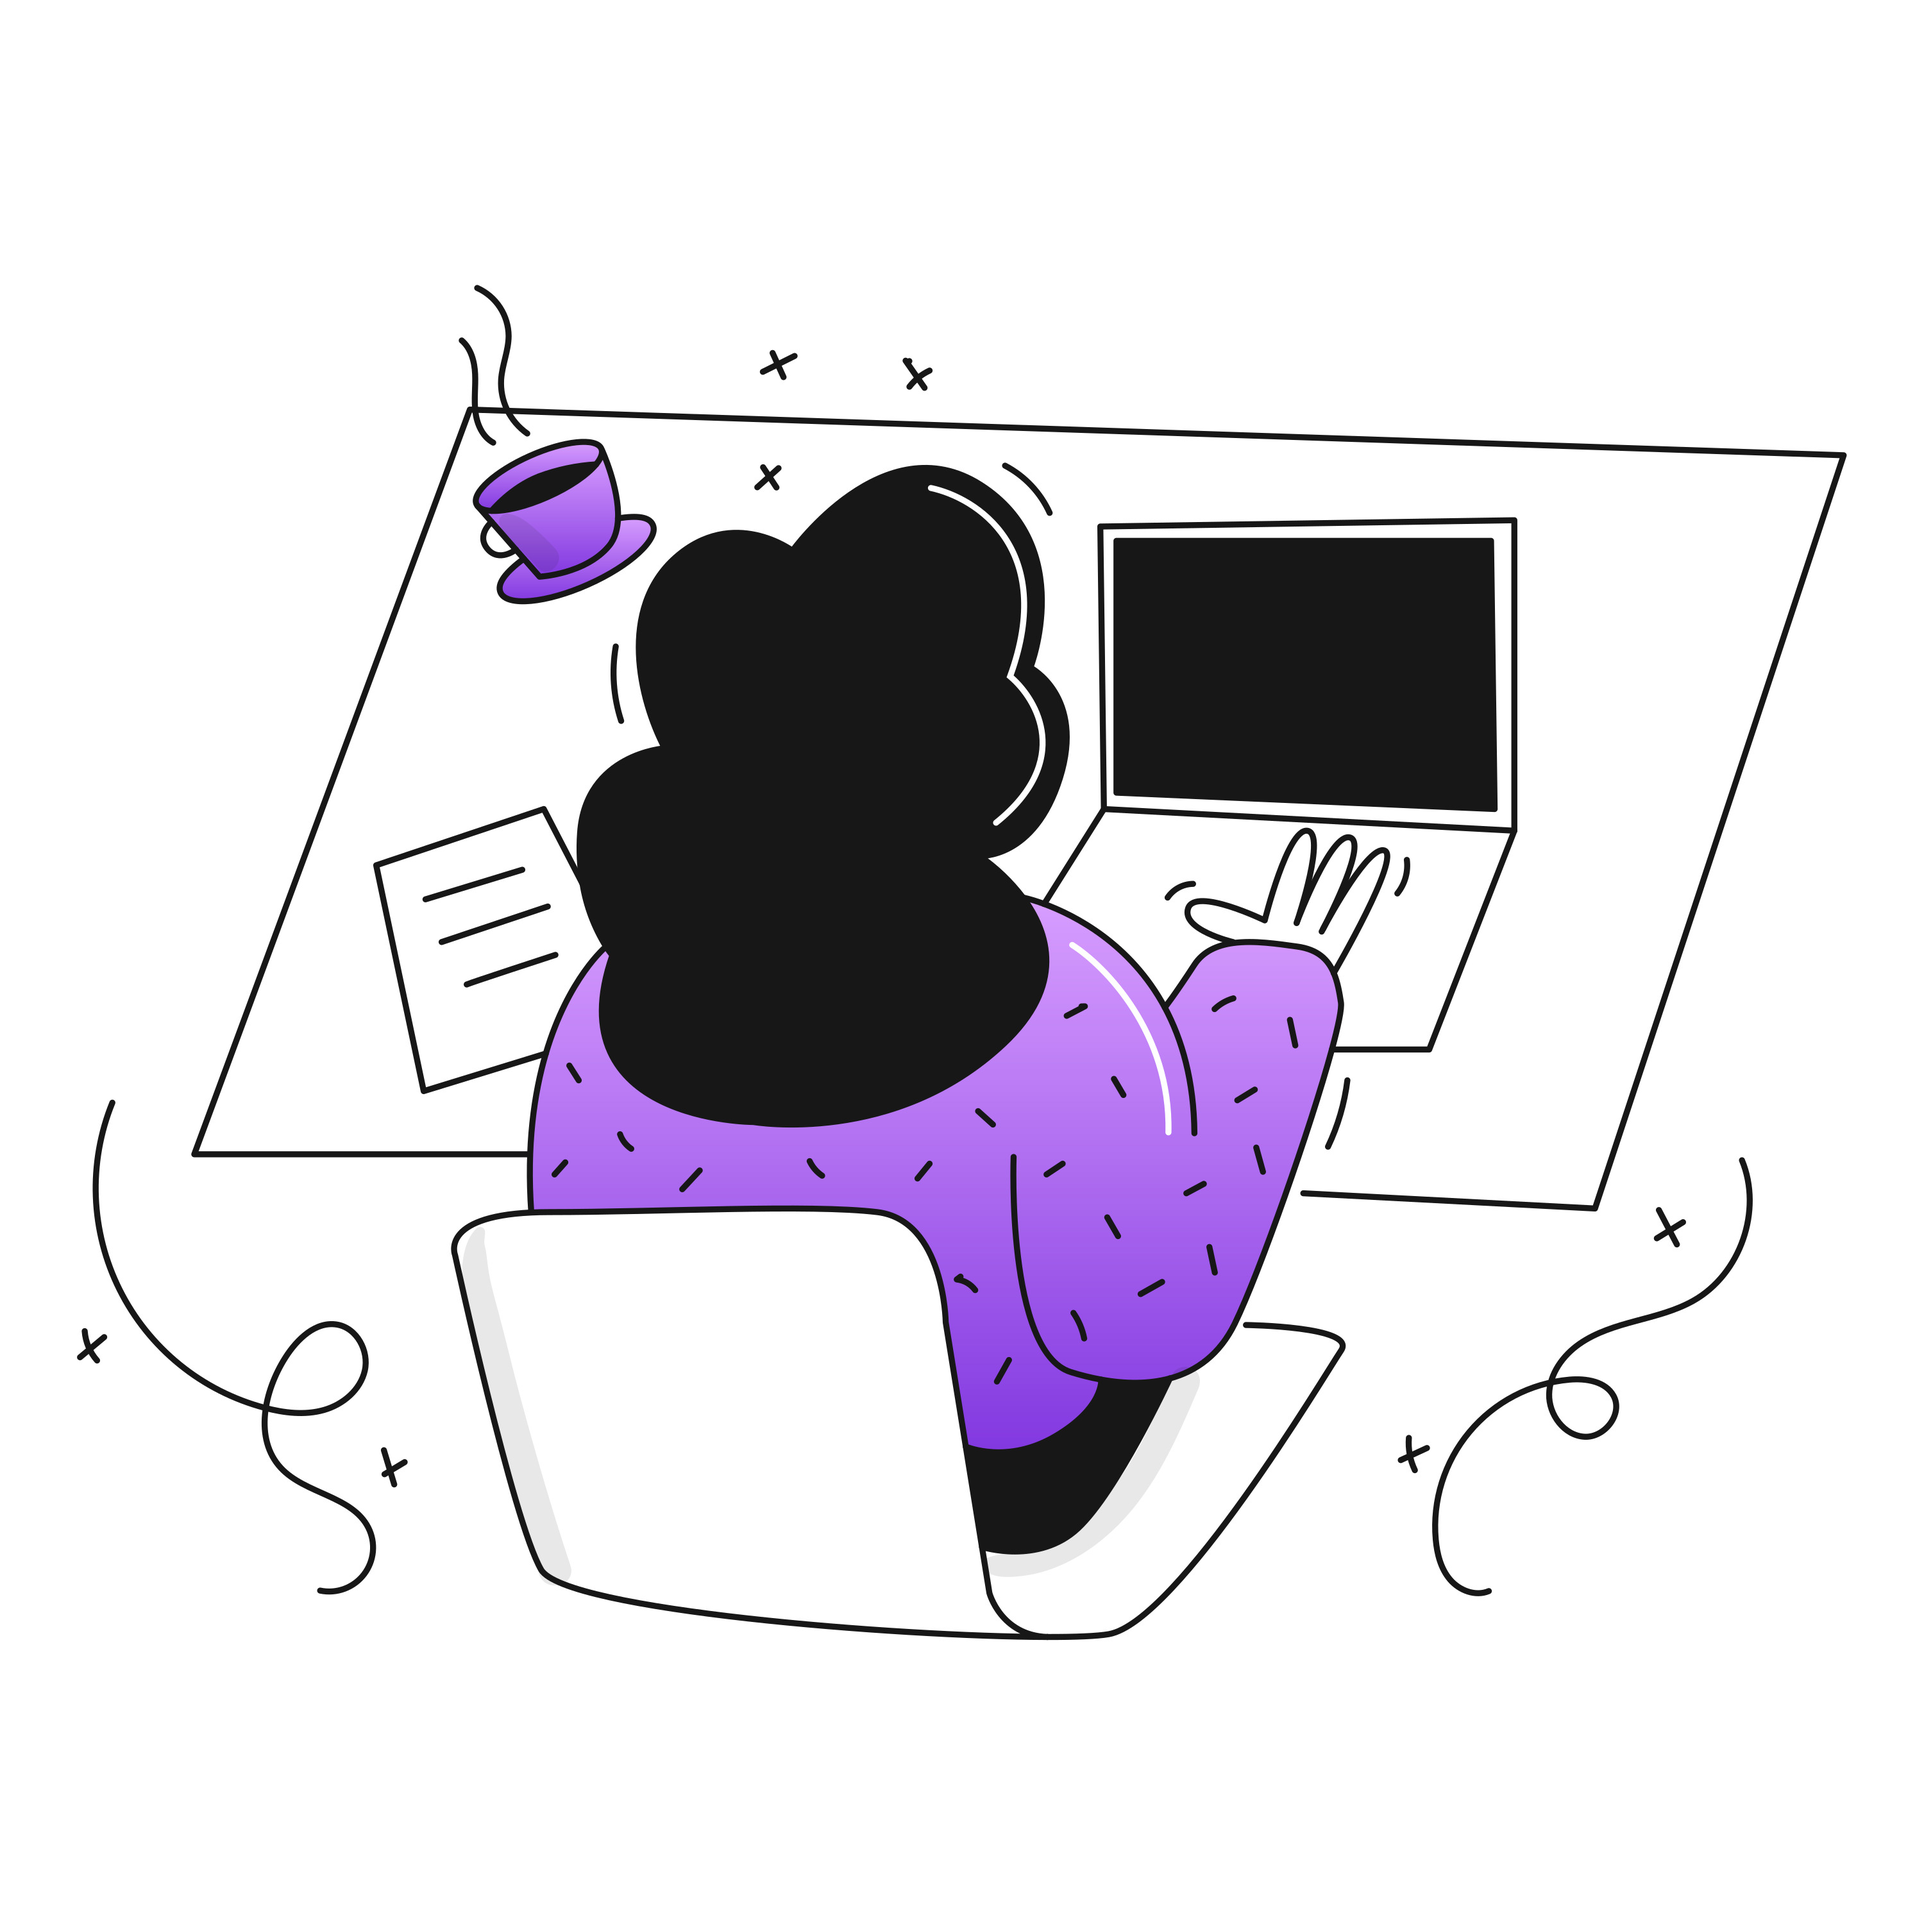
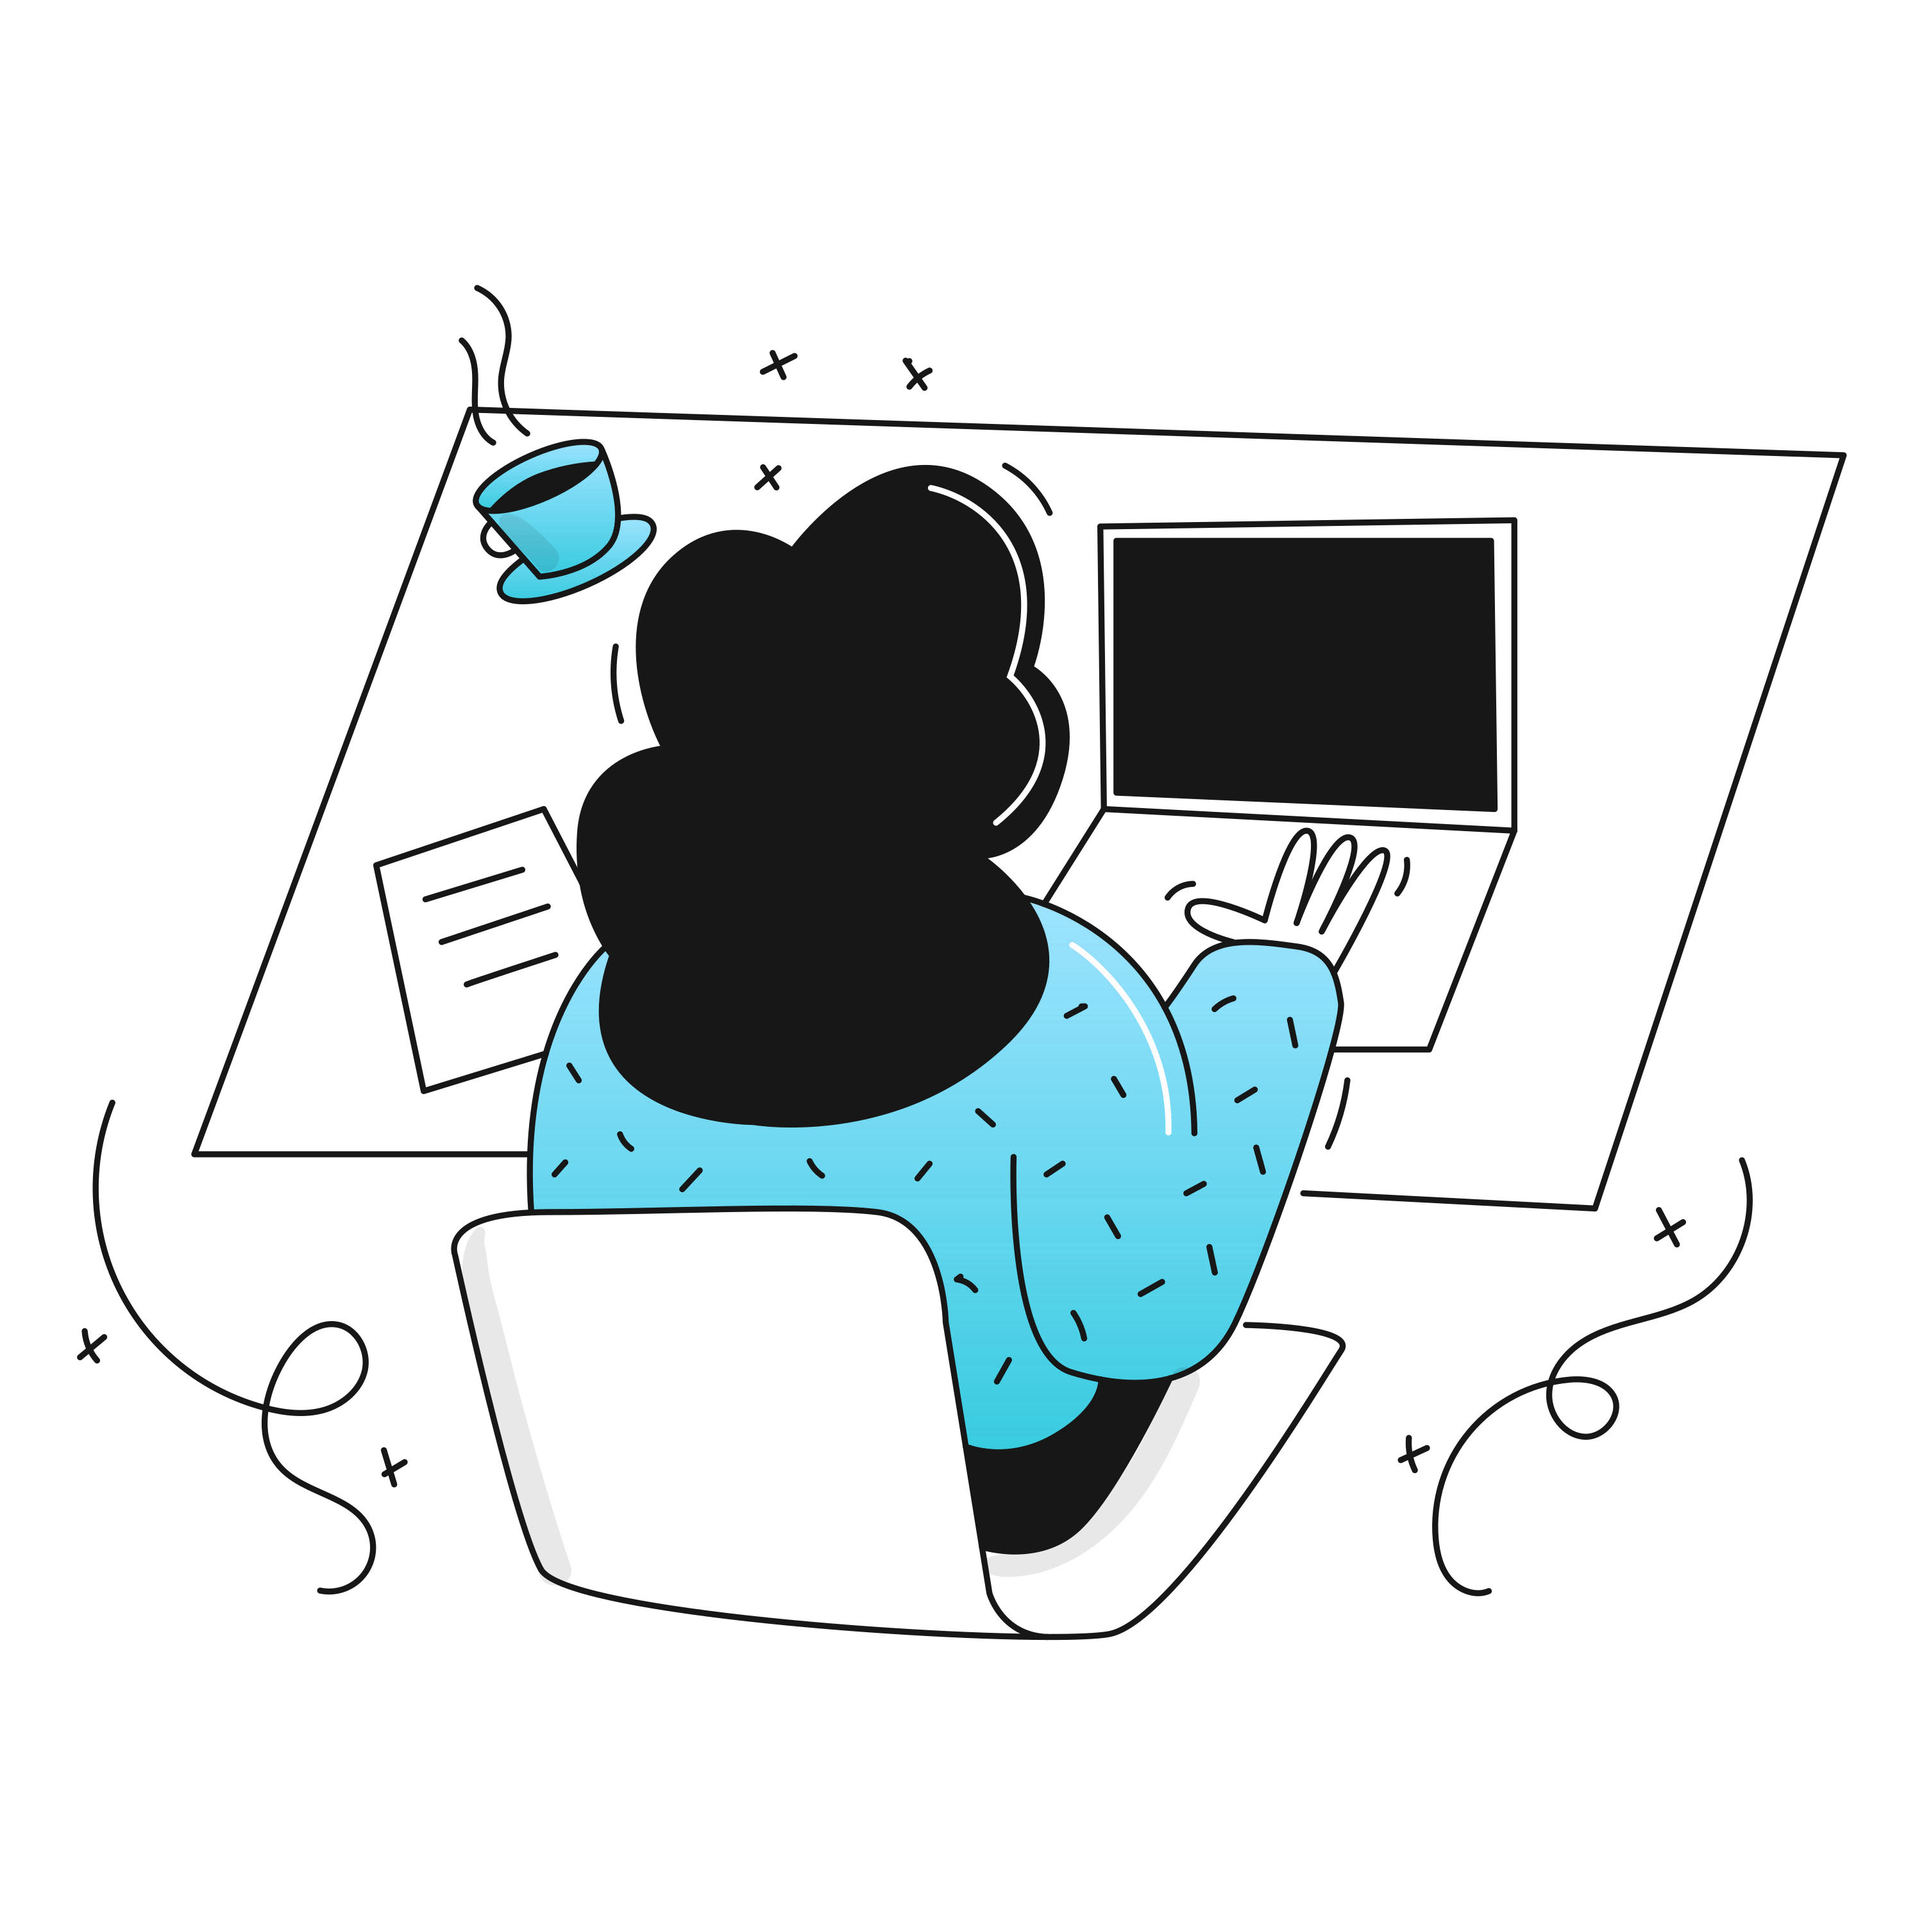
Updated theme

Changed region(s): [[0.279, 0.465, 0.713, 0.775], [0.248, 0.217, 0.341, 0.31]]

diff --git a/components/sections/bentogrid.tsx b/components/sections/bentogrid.tsx
@@ -22,7 +22,7 @@ export default function BentoGrid() {
                     fill="currentColor"
                   />
                 </svg>
-                <span className="text-gradient_indigo-purple mx-auto block w-fit font-heading text-5xl">
+                <span className="text-gradient_cyan-blue mx-auto block w-fit font-heading text-5xl">
                   100%
                 </span>
               </div>
@@ -69,9 +69,9 @@ export default function BentoGrid() {
                       y2="72"
                       gradientUnits="userSpaceOnUse"
                     >
-                      <stop stopColor="purple" stopOpacity="0" />
+                      <stop stopColor="cyan" stopOpacity="0" />
                       <stop
-                        className="text-indigo-600"
+                        className="text-cyan-600"
                         offset="1"
                         stopColor="currentColor"
                       />
@@ -81,7 +81,7 @@ export default function BentoGrid() {
                         width="129"
                         height="72"
                         fill="white"
-                        className="fill-indigo-500 opacity-100"
+                        className="fill-cyan-500 opacity-100"
                         transform="translate(41)"
                       />
                     </clipPath>
@@ -149,7 +149,7 @@ export default function BentoGrid() {
                     fill="url(#paint0_linear_0_106)"
                   />
                   <path
-                    className="text-indigo-600/60"
+                    className="text-cyan-600/60"
                     d="M3 121.077C3 121.077 15.3041 93.6691 36.0195 87.756C56.7349 81.8429 66.6632 80.9723 66.6632 80.9723C66.6632 80.9723 80.0327 80.9723 91.4656 80.9723C102.898 80.9723 100.415 64.2824 108.556 64.2824C116.696 64.2824 117.693 92.1332 125.226 92.1332C132.759 92.1332 142.07 78.5115 153.591 80.9723C165.113 83.433 186.092 92.1332 193 92.1332C199.908 92.1332 205.274 64.2824 213.017 64.2824C220.76 64.2824 237.832 93.8946 243.39 92.1332C248.948 90.3718 257.923 60.5 265.284 60.5C271.145 60.5 283.204 87.7182 285.772 87.756C293.823 87.8746 299.2 73.0802 304.411 73.0802C311.283 73.0802 321.425 65.9506 333.552 64.2824C345.68 62.6141 346.91 82.4553 362.27 80.9723C377.629 79.4892 383 106.605 383 106.605"
                     stroke="currentColor"
                     strokeWidth="3"
@@ -164,7 +164,7 @@ export default function BentoGrid() {
                       gradientUnits="userSpaceOnUse"
                     >
                       <stop
-                        className="text-purple-600/80"
+                        className="text-cyan-600/80"
                         stopColor="currentColor"
                       />
                       <stop
@@ -234,7 +234,7 @@ export default function BentoGrid() {
                   <span className="block size-2 rounded-full border border-border"></span>
                 </div>
                 <svg
-                  className="w-full text-indigo-600/60 sm:w-[150%]"
+                  className="w-full text-cyan-600/60 sm:w-[150%]"
                   viewBox="0 0 366 231"
                   fill="none"
                   xmlns="http://www.w3.org/2000/svg"
@@ -246,7 +246,7 @@ export default function BentoGrid() {
                     fill="url(#paint0_linear_0_705)"
                   />
                   <path
-                    className="text-indigo-600/60"
+                    className="text-cyan-600/60"
                     d="M1 179.796L4.05663 172.195V183.933L7.20122 174.398L8.45592 183.933L10.0546 186.948V155.455L12.6353 152.613V145.122L15.3021 134.71V149.804V155.455L16.6916 160.829L18.1222 172.195V158.182L19.8001 152.613L21.4105 148.111V137.548L23.6863 142.407V126.049L25.7658 127.87V120.525L27.2755 118.066L29.1801 112.407V123.822L31.0426 120.525V130.26L32.3559 134.71L34.406 145.122V137.548L35.8982 130.26L37.1871 126.049L38.6578 134.71L40.659 138.977V130.26V126.049L43.7557 130.26V123.822L45.972 112.407L47.3391 103.407V92.4726L49.2133 98.4651V106.053L52.5797 89.7556L54.4559 82.7747L56.1181 87.9656L58.9383 89.7556V98.4651L60.7617 103.407L62.0545 123.822L63.8789 118.066L65.631 122.082L68.5479 114.229L70.299 109.729L71.8899 118.066L73.5785 123.822V130.26L74.9446 134.861L76.9243 127.87L78.352 134.71V138.977L80.0787 142.407V152.613L83.0415 142.407V130.26L86.791 123.822L89.0121 116.645V122.082L90.6059 127.87L92.3541 131.77L93.7104 123.822L95.4635 118.066L96.7553 122.082V137.548L99.7094 140.988V131.77L101.711 120.525L103.036 116.645V133.348L104.893 136.218L106.951 140.988L108.933 134.71L110.797 130.26L112.856 140.988V148.111L115.711 152.613L117.941 145.122L119.999 140.988L121.501 148.111L123.4 152.613L125.401 158.182L127.992 152.613L131.578 146.76V155.455L134.143 158.182L135.818 164.629L138.329 158.182L140.612 160.829L144.117 166.757L146.118 155.455L147.823 149.804L151.02 152.613L154.886 145.122L158.496 140.988V133.348L161.295 127.87V122.082L162.855 116.645V109.729L164.83 103.407L166.894 109.729L176.249 98.4651L178.254 106.169L180.77 98.4651V81.045L182.906 69.1641L184.8 56.8669L186.477 62.8428L187.848 79.7483L188.849 106.169L191.351 79.7483L193.485 75.645V98.4651L196.622 94.4523L198.623 87.4228V79.7483L200.717 75.645L202.276 81.045V89.3966L203.638 113.023L205.334 99.8037L207.164 94.4523L208.982 98.4651V102.176L211.267 107.64L212.788 81.045L214.437 66.0083L216.19 62.8428L217.941 56.8669V73.676V79.7483L220.28 75.645L222.516 66.0083V73.676H226.174V84.8662L228.566 98.4651L230.316 75.645L233.61 94.4523V104.25L236.882 102.176L239.543 113.023L241.057 98.4651L243.604 94.4523L244.975 106.169L245.975 87.4228L247.272 89.3966L250.732 84.8662L251.733 96.7549L254.644 94.4523L257.452 99.8037L259.853 91.3111L261.193 84.8662L264.162 75.645L265.808 87.4228L267.247 58.4895L269.757 66.0083L276.625 13.5146L273.33 58.4895L276.25 67.6563L282.377 20.1968L281.37 58.4895V66.0083L283.579 75.645L286.033 56.8669L287.436 73.676L290.628 77.6636L292.414 84.8662L294.214 61.3904L296.215 18.9623L300.826 0.947876L297.531 56.8669L299.973 62.8428L305.548 22.0598L299.755 114.956L301.907 105.378L304.192 112.688V94.9932L308.009 80.0829L310.003 94.9932L311.004 102.127L312.386 105.378L315.007 112.688L316.853 98.004L318.895 105.378L321.257 94.9932L324.349 100.81L325.032 80.0829L327.604 61.5733L329.357 74.9864L332.611 52.6565L334.352 48.5552L335.785 55.2637L338.377 59.5888V73.426L341.699 87.5181L343.843 93.4347L347.714 82.1171L350.229 78.6821L351.974 89.7556L353.323 94.9932L355.821 93.4347L357.799 102.127L360.684 108.794L363.219 98.004L365 89.7556"
                     stroke="currentColor"
                     strokeWidth="2"
@@ -261,11 +261,11 @@ export default function BentoGrid() {
                       gradientUnits="userSpaceOnUse"
                     >
                       <stop
-                        className="text-purple-500/50"
+                        className="text-cyan-500/50"
                         stopColor="currentColor"
                       />
                       <stop
-                        className="text-purple-950/5"
+                        className="text-cyan-950/5"
                         offset="1"
                         stopColor="currentColor"
                         stopOpacity="0.01"
@@ -312,7 +312,7 @@ export default function BentoGrid() {
                   </p>
                 </div>
               </div>
-              <div className="relative mt-6 before:absolute before:inset-0 before:mx-auto before:w-px before:bg-purple-500/50 sm:-my-8 sm:-mr-8">
+              <div className="relative mt-6 before:absolute before:inset-0 before:mx-auto before:w-px before:bg-cyan-500/50 sm:-my-8 sm:-mr-8">
                 <div className="relative flex h-full flex-col justify-center space-y-6 py-6">
                   <div className="relative flex w-[calc(50%+0.875rem)] items-center justify-end gap-2">
                     <span className="block h-fit rounded-md border bg-muted/50 px-2 py-1 text-xs">

diff --git a/styles/globals.css b/styles/globals.css
@@ -10,7 +10,7 @@
     --card-foreground: 0 0% 3.9%;
     --popover: 0 0% 100%;
     --popover-foreground: 0 0% 3.9%;
-    --primary: 0 0% 9%;
+    --primary: 187 76% 45%;
     --primary-foreground: 0 0% 98%;
     --secondary: 0 0% 96.1%;
     --secondary-foreground: 0 0% 9%;
@@ -24,7 +24,7 @@
     --input: 0 0% 89.8%;
     --ring: 0 0% 3.9%;
     --radius: 0.5rem;
-    
+
     --chart-1: 271.5 81.3% 55.9%;
     --chart-2: 270 95% 75%;
     --chart-3: 270 91% 65%;
@@ -68,7 +68,9 @@
 
   body {
     @apply bg-background text-foreground;
-    font-feature-settings: "rlig" 1, "calt" 1;
+    font-feature-settings:
+      "rlig" 1,
+      "calt" 1;
   }
 }
 
@@ -78,14 +80,14 @@
   }
 
   .step:before {
-    @apply absolute w-9 h-9 bg-muted rounded-full font-mono font-medium text-center text-base inline-flex items-center justify-center -indent-px border-4 border-background;
+    @apply absolute inline-flex h-9 w-9 items-center justify-center rounded-full border-4 border-background bg-muted text-center -indent-px font-mono text-base font-medium;
     @apply ml-[-50px] mt-[-4px];
     content: counter(step);
   }
 }
 
-.text-gradient_indigo-purple {
-  background: linear-gradient(90deg, #6366f1 0%, rgb(168 85 247 / 0.8) 100%);
+.text-gradient_cyan-blue {
+  background: linear-gradient(90deg, #00e1ff 0%, rgba(0, 119, 255, 0.8) 100%);
   -webkit-background-clip: text;
   -webkit-text-fill-color: transparent;
   background-clip: text;

diff --git a/components/pricing/pricing-cards.tsx b/components/pricing/pricing-cards.tsx
@@ -38,7 +38,7 @@ export function PricingCards({ userId, subscriptionPlan }: PricingCardsProps) {
         className={cn(
           "relative flex flex-col overflow-hidden rounded-3xl border shadow-sm",
           offer.title.toLocaleLowerCase() === "pro"
-            ? "-m-0.5 border-2 border-purple-400"
+            ? "-m-0.5 border-2 border-cyan-400"
             : "",
         )}
         key={offer.title}
@@ -80,7 +80,7 @@ export function PricingCards({ userId, subscriptionPlan }: PricingCardsProps) {
           <ul className="space-y-2 text-left text-sm font-medium leading-normal">
             {offer.benefits.map((feature) => (
               <li className="flex items-start gap-x-3" key={feature}>
-                <Icons.check className="size-5 shrink-0 text-purple-500" />
+                <Icons.check className="size-5 shrink-0 text-cyan-500" />
                 <p>{feature}</p>
               </li>
             ))}

diff --git a/components/sections/info-landing.tsx b/components/sections/info-landing.tsx
@@ -30,7 +30,7 @@ export default function InfoLanding({
               return (
                 <div className="relative pl-8" key={index}>
                   <dt className="font-semibold">
-                    <Icon className="absolute left-0 top-1 size-5 stroke-purple-700" />
+                    <Icon className="absolute left-0 top-1 size-5 stroke-cyan-700" />
                     <span>{item.title}</span>
                   </dt>
                   <dd className="text-sm text-muted-foreground">

diff --git a/components/sections/hero-landing.tsx b/components/sections/hero-landing.tsx
@@ -41,7 +41,7 @@ export default async function HeroLanding() {
 
         <h1 className="text-balance font-urban text-4xl font-extrabold tracking-tight sm:text-5xl md:text-6xl lg:text-[66px]">
           Kick off with a bang with{" "}
-          <span className="text-gradient_indigo-purple font-extrabold">
+          <span className="text-gradient_cyan-blue font-extrabold">
             SaaS Starter
           </span>
         </h1>

diff --git a/app/(marketing)/pricing/page.tsx b/app/(marketing)/pricing/page.tsx
@@ -31,7 +31,7 @@ export default async function PricingPage() {
           You are an {user.role}. Back to{" "}
           <Link
             href="/admin"
-            className="text-muted-foreground underline underline-offset-4 hover:text-purple-500"
+            className="text-muted-foreground underline underline-offset-4 hover:text-cyan-500"
           >
             Dashboard
           </Link>

diff --git a/components/shared/header-section.tsx b/components/shared/header-section.tsx
@@ -8,7 +8,7 @@ export function HeaderSection({ label, title, subtitle }: HeaderSectionProps) {
   return (
     <div className="flex flex-col items-center text-center">
       {label ? (
-        <div className="text-gradient_indigo-purple mb-4 font-semibold">
+        <div className="text-gradient_cyan-blue mb-4 font-semibold">
           {label}
         </div>
       ) : null}
